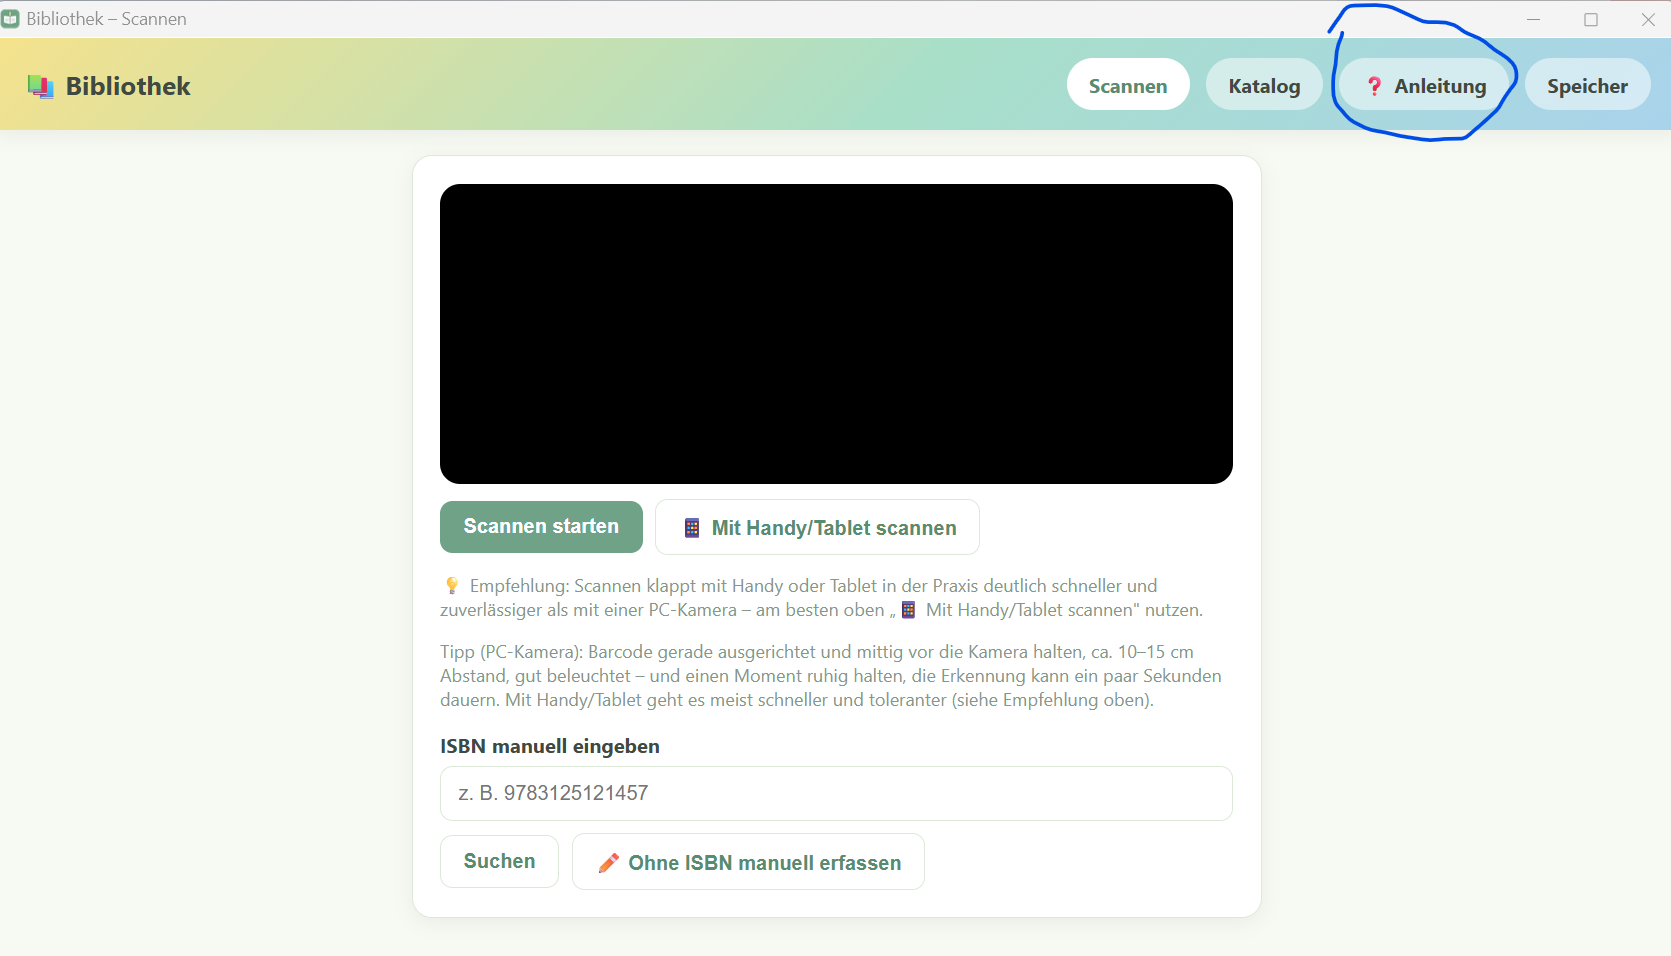
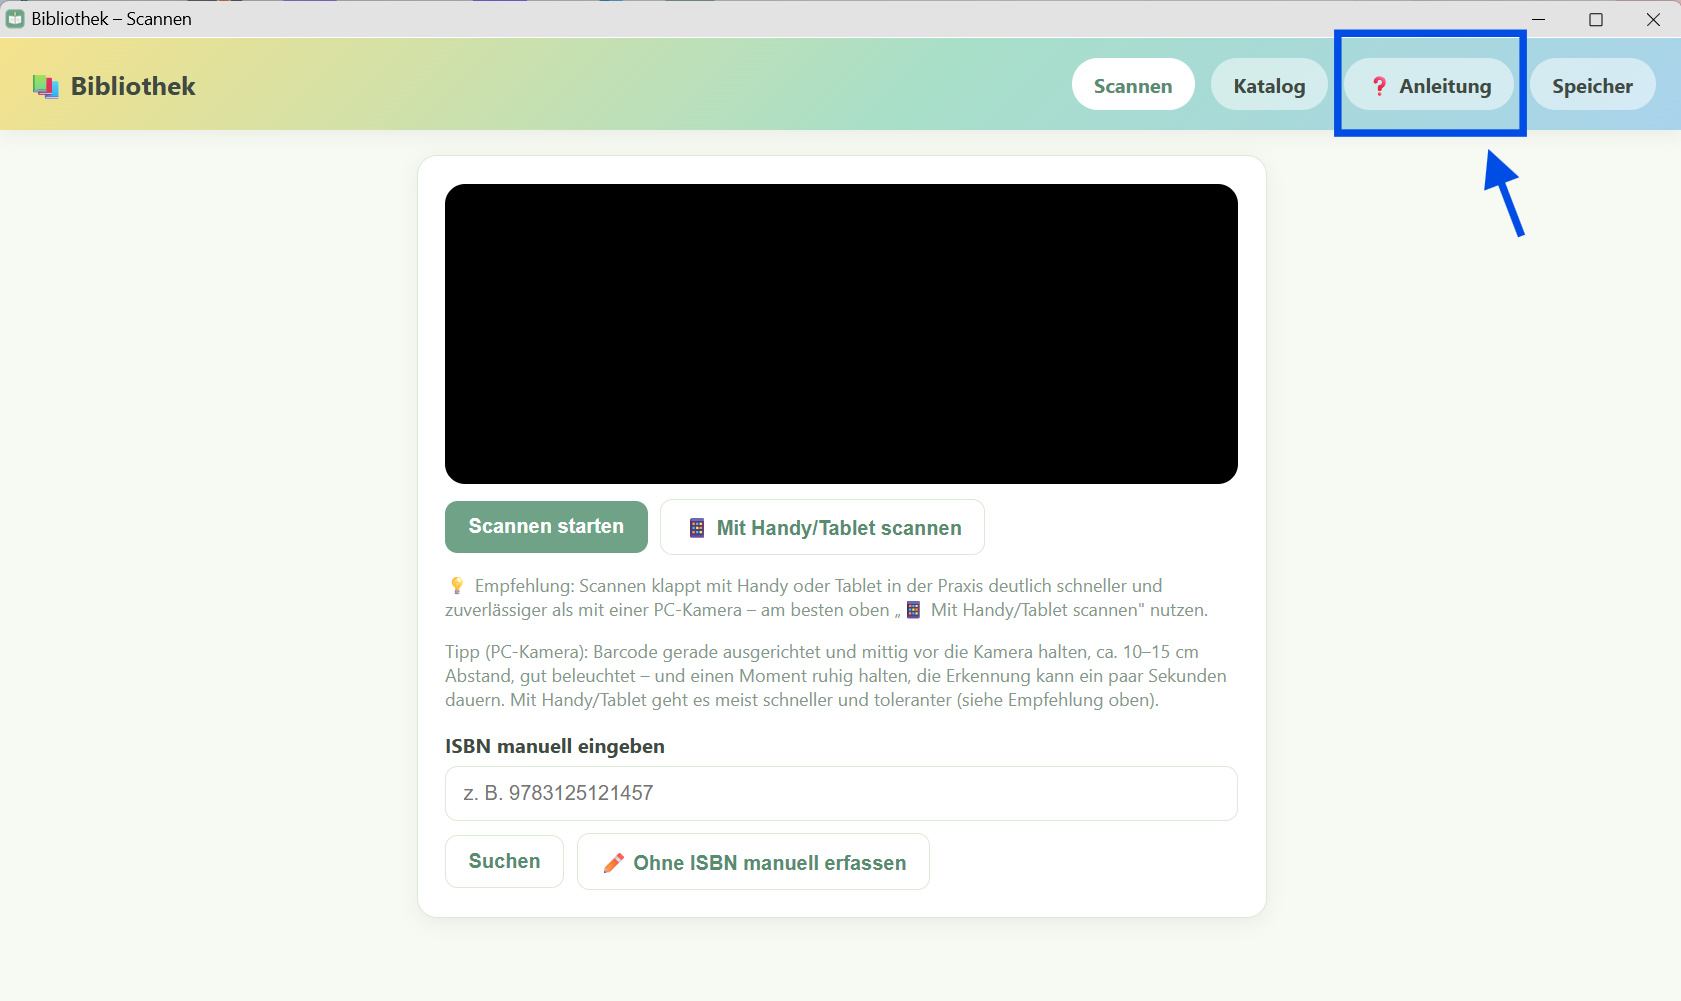
Add uninstall steps to landing page, update Anleitung screenshot
Numbered list before the closing line: stop the server, remove the
program folder (holds the book data, so back up first if needed),
remove the desktop shortcut, and optionally clear the isolated Edge
profile. Also swaps in the clearer highlighted screenshot for the
Anleitung button.

diff --git a/landing/index.html b/landing/index.html
@@ -68,6 +68,8 @@
     margin-bottom: 20px;
   }
   p { line-height: 1.6; }
+  ol { line-height: 1.6; padding-left: 22px; }
+  li { margin-bottom: 6px; }
   code {
     background: var(--bg);
     border: 1px solid var(--border);
@@ -159,6 +161,14 @@
       über die Software zu verschaffen (dauert ca. 5 Minuten):
     </p>
     <img class="shot app-shot" src="anleitung.png" alt="Anleitung-Button oben rechts in der Bibliothek-Bedienoberfläche">
+
+    <h2>Deinstallation</h2>
+    <ol>
+      <li>Server beenden: Fenster „Bibliothekssystem Server" schließen.</li>
+      <li>Programm-Ordner löschen (enthält auch die Bücherdaten – vorher sichern, falls gewünscht).</li>
+      <li>Desktop-Verknüpfung „Bibliothek" löschen.</li>
+      <li>Optional: Ordner <code>%LOCALAPPDATA%\Bibliothekssystem</code> löschen (gespeicherte Kamera-Berechtigung).</li>
+    </ol>
 
     <p>Wir wünschen viel Freude mit der Bibliothek!</p>
 
